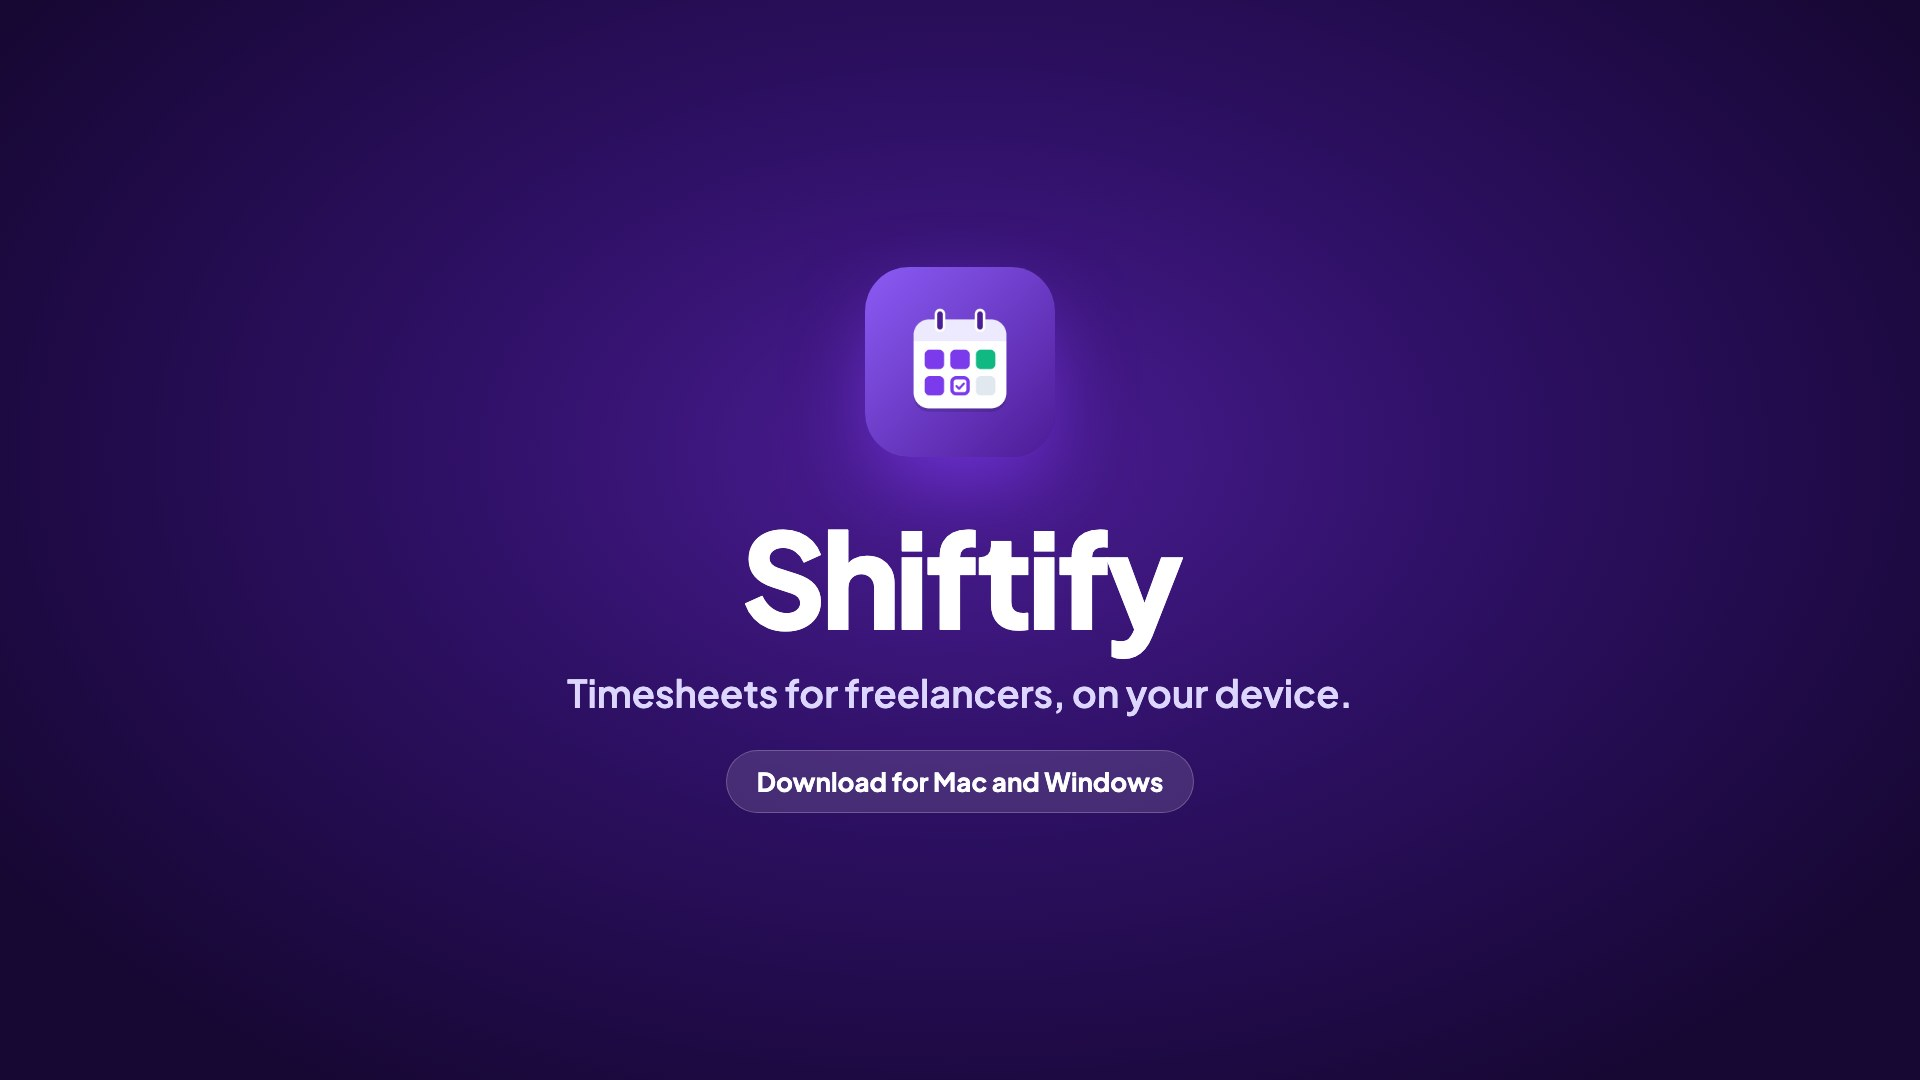
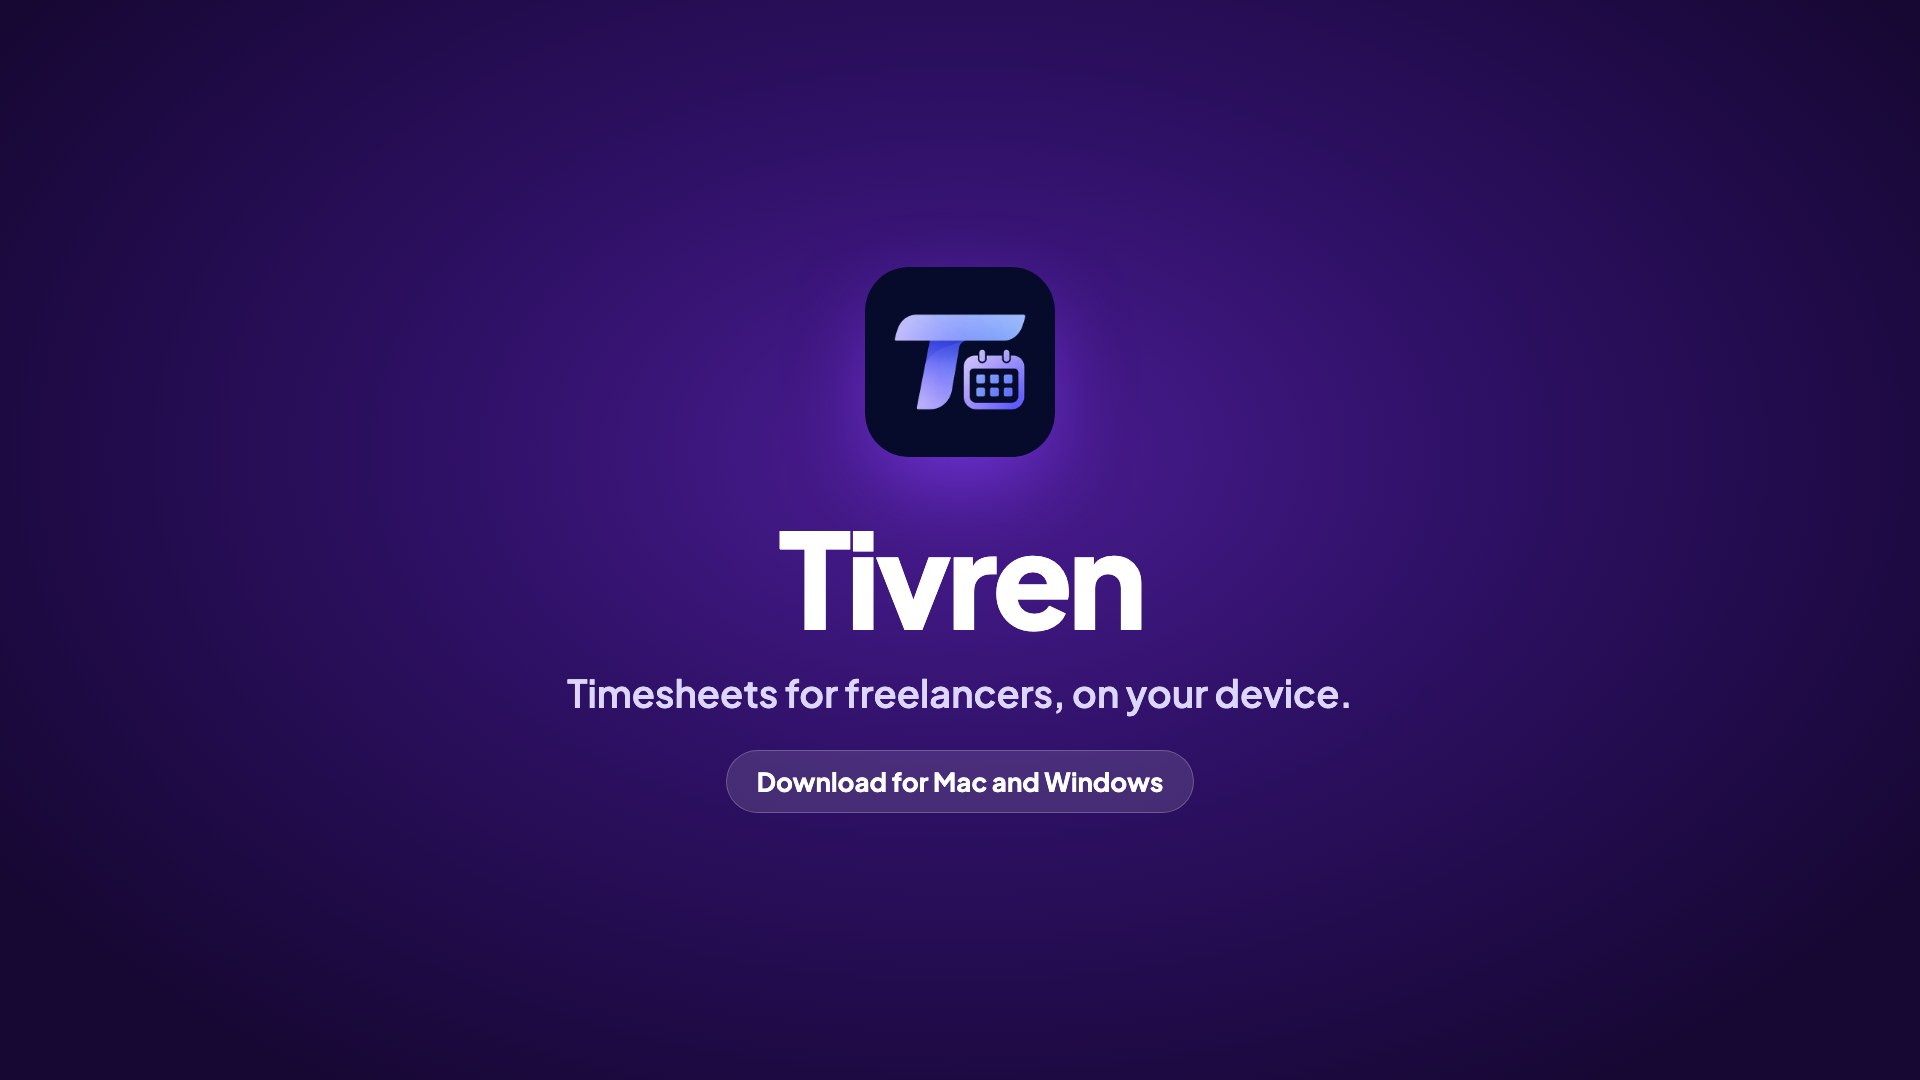
feat: rebrand shiftify

Changed region(s): [[0.375, 0.4889, 0.625, 0.6111], [0.4375, 0.2444, 0.5625, 0.4278]]

diff --git a/src/i18n/locales/ro/content.ts b/src/i18n/locales/ro/content.ts
@@ -1,111 +1,114 @@
 import type { CvContent } from "../../../types/content.ts";
 
+// Written to read naturally in Romanian, not translated word for word. Common IT
+// terms (code review, feature flags, stakeholderi…) stay in English, as Romanian
+// developers use them.
 export const content: CvContent = {
   profile: {
     role: "Senior Frontend Developer",
     location: "Târgu Mureș, România",
     summary:
-      "Inginer frontend cu peste 7 ani de experiență în platforme web reglementate, cu trafic ridicat, pentru clienți din Marea Britanie și SUA, acum colaborator independent. Scriu React și TypeScript, modelez arhitectura prin ADR-uri și am condus și dezvoltat echipe frontend ca People Lead.",
-    languages: ["Română (nativ)", "Engleză"],
+      "Dezvoltator frontend cu peste 7 ani de experiență în construirea de platforme web reglementate, cu trafic ridicat, pentru clienți din Marea Britanie și SUA. În prezent lucrez ca colaborator independent. Folosesc zilnic React și TypeScript, documentez deciziile de arhitectură prin ADR-uri, iar ca People Lead am îndrumat și sprijinit creșterea echipelor de frontend.",
+    languages: ["Română (limbă maternă)", "Engleză"],
     hiring: {
-      employee: { label: "Angajat", detail: "CIM (Contract Individual de Muncă)" },
-      contractor: { label: "Colaborator", detail: "B2B / freelance" },
+      employee: { label: "Angajare", detail: "CIM (Contract Individual de Muncă)" },
+      contractor: { label: "Colaborare", detail: "B2B / freelance" },
     },
   },
   jobs: {
     "gaming-factory": {
       title: "Senior Frontend Developer",
-      headline: "Dezvoltare frontend pentru un produs online de pariuri sportive și cazino",
+      headline: "Dezvoltare frontend pentru o platformă online de pariuri sportive și cazinou",
       points: [
-        "Dezvolt funcționalități pentru jucători și integrez servicii terțe precum video live, statistici în timp real și conținut promoțional.",
-        "Lucrez la instrumentele operatorilor din spatele produsului: gestionarea evenimentelor, a jocurilor și a competițiilor personalizate, plus plăți și pariuri.",
-        "Creez instrumente interne care oferă dezvoltatorilor și stakeholderilor vizibilitate asupra lansării funcționalităților și a testelor automate.",
-        "Livrez pagini de prezentare dedicate campaniilor de marketing.",
-        "Mențin codul sănătos prin code review, teste unitare și end-to-end și optimizări de performanță, și stabilesc prioritățile direct cu stakeholderii.",
+        "Dezvolt funcționalități destinate jucătorilor și integrez servicii externe, precum transmisiuni video live, statistici în timp real din timpul meciurilor și conținut promoțional.",
+        "Lucrez la instrumentele folosite de operatori pentru gestionarea evenimentelor sportive, a jocurilor și a competițiilor personalizate, precum și a plăților și pariurilor.",
+        "Construiesc unelte interne care le oferă dezvoltatorilor și echipelor de business o imagine clară asupra lansării funcționalităților și a rezultatelor testelor automate.",
+        "Realizez landing page-uri dedicate campaniilor de marketing.",
+        "Mențin calitatea codului prin code review, teste unitare și end-to-end și optimizări de performanță, iar prioritățile le stabilesc direct cu stakeholderii.",
       ],
     },
     healthcare: {
       title: "Senior Web Developer",
-      headline: "Portal pentru membri, conform HIPAA, pentru un client important din sistemul de sănătate american",
+      headline: "Portal pentru asigurați, conform HIPAA, pentru un client important din sistemul de sănătate din SUA",
       points: [
-        "Am coordonat sub-echipa noastră sub îndrumarea tech lead-ului, am construit funcționalități de bază și le-am conectat la endpoint-urile din backend.",
-        "Am redactat ADR-uri cheie: o arhitectură bazată pe portaluri, cu Jotai families și randare pe bază de chei, care păstrează starea iframe-urilor, și o strategie de layout pentru mai multe headere sticky.",
-        "Am impus un sistem de module feature-sliced cu eslint-plugin-boundaries și am contribuit la un toolkit comun care aliniază aplicațiile web și native.",
-        "M-am familiarizat rapid cu WCAG pentru a asigura accesibilitatea completă a unui portal public.",
-        "Am construit o componentă reutilizabilă de feature flags pe Sentry; autentificare cu Okta; teste cu Vitest și React Testing Library.",
+        "Am îndrumat subechipa din care făceam parte, sub coordonarea tech lead-ului, am implementat funcționalitățile de bază și le-am conectat la endpoint-urile din backend.",
+        "Am scris ADR-uri esențiale: unul pentru o arhitectură bazată pe portaluri, cu Jotai families și randare pe bază de key, care păstrează starea iframe-urilor, și altul pentru un layout cu mai multe headere sticky.",
+        "Am impus o arhitectură modulară de tip feature-sliced, verificată cu eslint-plugin-boundaries, și am contribuit la un toolkit comun, cu helperi și tipuri de date folosite atât în aplicația web, cât și în cea nativă.",
+        "M-am familiarizat rapid cu WCAG, ca portalul, fiind unul public, să respecte pe deplin standardele de accesibilitate.",
+        "Am construit o componentă reutilizabilă de feature flags, integrată cu Sentry, am lucrat cu autentificarea prin Okta și am scris teste cu Vitest și React Testing Library.",
       ],
     },
     "people-lead": {
       title: "People Lead",
-      headline: "Dezvoltarea și starea de bine a dezvoltatorilor frontend",
+      headline: "Creșterea profesională și starea de bine a echipei de frontend",
       points: [
-        "Am sprijinit dezvoltarea profesională a dezvoltatorilor frontend și alinierea lor cu obiectivele companiei.",
-        "Am condus evaluări de performanță, am gestionat nemulțumiri și am comunicat transparent deciziile companiei pentru a construi încredere.",
+        "Am sprijinit creșterea profesională a colegilor din frontend și i-am ajutat să își alinieze obiectivele cu cele ale companiei.",
+        "Am susținut evaluări de performanță, am rezolvat problemele semnalate de colegi și am comunicat transparent deciziile companiei, ca să construim o relație de încredere.",
       ],
     },
     "consumer-platform": {
       title: "Web Developer",
-      headline: "Platformă web de consum cu trafic ridicat, pe o piață reglementată din Marea Britanie",
+      headline: "Platformă web B2C cu trafic ridicat, pe o piață reglementată din Marea Britanie",
       points: [
-        "Am întreținut și extins aplicația principală pentru clienți: am migrat componentele de tip clasă la hooks și am integrat streaming live, widgeturi cu date în timp real, bannere dinamice și reCAPTCHA.",
-        "Am construit un instrument intern pentru urmărirea stadiului funcționalităților și a deeplink-urilor, rularea testelor E2E Cypress și activarea funcționalităților prin Jenkins.",
-        "Am contribuit la back office: gestionarea conținutului, competiții personalizate pentru anumiți clienți, plăți și tranzacții.",
-        "Am construit o aplicație single-page pentru campanii de marketing.",
-        "Am îndrumat și sprijinit dezvoltatori prin code ownership, am stabilit prioritățile împreună cu stakeholderii și am susținut interviuri tehnice pentru roluri React.",
+        "Am întreținut și extins aplicația principală pentru clienți: am rescris componentele de tip clasă ca componente funcționale cu hooks și am integrat streaming live, widgeturi cu date în timp real, bannere dinamice și reCAPTCHA.",
+        "Am construit un instrument intern în care dezvoltatorii urmăreau stadiul funcționalităților și deeplink-urile lor, porneau teste E2E cu Cypress și activau sau dezactivau funcționalități prin Jenkins.",
+        "Am contribuit la aplicația de back office, folosită pentru gestionarea conținutului, crearea de competiții personalizate pentru anumiți clienți și administrarea plăților și tranzacțiilor.",
+        "Am dezvoltat o aplicație single-page pentru campaniile de marketing.",
+        "Am îndrumat și sprijinit alți dezvoltatori prin code ownership, am stabilit prioritățile împreună cu stakeholderii și am susținut interviuri tehnice pentru poziții de React developer.",
       ],
     },
     qa: {
-      title: "QA manual și automat · part-time",
+      title: "QA manual și automatizat · part-time",
       headline: "Aplicații mobile și servicii backend",
       points: [
-        "Testare manuală a aplicațiilor Android și iOS pentru utilizabilitate și stabilitate.",
-        "Testare automată a serviciilor backend și a API-urilor în Java.",
+        "Am testat manual aplicațiile Android și iOS, urmărind ușurința în utilizare, funcționalitatea și stabilitatea.",
+        "Am scris teste automatizate în Java pentru serviciile backend și API-uri.",
       ],
     },
     "android-intern": {
       title: "Android Developer · stagiar",
-      headline: "Bazele dezvoltării Android",
-      points: ["Stagiu care a pus bazele aplicației din lucrarea mea de licență."],
+      headline: "Primii pași în dezvoltarea Android",
+      points: ["Stagiul mi-a oferit bazele de care am avut nevoie pentru aplicația din lucrarea de licență."],
     },
     "qa-intern": {
       title: "QA manual · stagiar",
-      headline: "Procese de testare și raportarea defectelor",
-      points: ["Prima experiență practică cu procese de QA pe proiecte software reale."],
+      headline: "Procese de testare și raportare a defectelor",
+      points: ["Primul contact practic cu procesele de QA, pe proiecte software reale."],
     },
   },
   projects: {
-    shiftify: {
-      name: "Shiftify",
-      tagline: "Pontaje pentru freelanceri, fără foi de calcul.",
+    tivren: {
+      name: "Tivren",
+      tagline: "Pontaje pentru freelanceri, fără bătăi de cap.",
       description:
-        "O aplicație offline de pontaj pentru freelanceri: înregistrezi zilele lucrate pentru fiecare client, îți iei zile libere și exporți pontajul lunar în Excel sau PDF. Sărbătorile legale se aplică automat, iar totul rămâne pe dispozitiv: fără cont, fără backend. Construită cu Expo / React Native pentru mobil și Electron pentru Mac și Windows, cu un site de prezentare în React + Vite care distribuie versiuni semnate, cu actualizare automată.",
+        "O aplicație offline de pontaj pentru freelanceri: înregistrezi zilele lucrate la fiecare client, îți notezi zilele libere și exporți pontajul lunar în Excel sau PDF. Sărbătorile legale sunt luate în calcul automat, iar datele rămân pe dispozitiv: fără cont, fără server. Am construit-o cu Expo / React Native pentru mobil și cu Electron pentru Mac și Windows, iar site-ul de prezentare, făcut în React + Vite, distribuie versiuni semnate, care se actualizează automat.",
       links: {
         website: "Vezi site-ul",
         source: "Codul site-ului",
       },
-      images: ["Pontajul zilnic în Shiftify", "Luna dintr-o privire", "Export în Excel sau PDF", "Mod întunecat"],
+      images: ["Pontajul zilnic din Tivren", "Luna dintr-o privire", "Export în Excel sau PDF", "Modul întunecat"],
     },
     "healthcare-portal": {
-      name: "Portal pentru membri – sănătate SUA",
-      tagline: "Portal pentru membri, conform HIPAA și WCAG.",
+      name: "Portal pentru asigurați (SUA)",
+      tagline: "Conform HIPAA și cu accesibilitate WCAG.",
       description:
-        "Arhitectură bazată pe portaluri care păstrează starea iframe-urilor, layouturi cu mai multe headere sticky, un toolkit comun web/nativ și feature flags pe Sentry.",
+        "Arhitectură bazată pe portaluri care păstrează starea iframe-urilor, layouturi cu mai multe headere sticky, un toolkit comun pentru web și mobil și feature flags integrate cu Sentry.",
       links: {},
       images: [],
     },
     "dev-tool": {
-      name: "Dashboard de lansări și funcționalități",
+      name: "Dashboard pentru lansări și funcționalități",
       tagline: "Instrument intern pentru dezvoltatori.",
       description:
-        "Un singur loc în care dezvoltatorii și stakeholderii urmăresc progresul fiecărei funcționalități, accesează deeplink-urile și task-urile asociate, pornesc teste end-to-end și activează sau dezactivează funcționalități prin joburi Jenkins.",
+        "Un singur loc din care dezvoltatorii și stakeholderii urmăresc progresul fiecărei funcționalități, ajung la deeplink-urile și task-urile asociate, pornesc teste end-to-end și activează sau dezactivează funcționalități prin joburi Jenkins.",
       links: {},
       images: [],
     },
     backoffice: {
       name: "Back office operațional",
-      tagline: "Platformă de administrare pentru un produs de consum cu trafic ridicat.",
+      tagline: "Platformă de administrare pentru un produs B2C cu trafic ridicat.",
       description:
-        "Folosit zilnic de operatori pentru a configura și edita conținut, a crea competiții personalizate pentru anumiți clienți și a supraveghea plăți și tranzacții.",
+        "Folosit zilnic de operatori pentru a configura și edita conținutul, a crea competiții personalizate pentru anumiți clienți și a urmări plățile și tranzacțiile.",
       links: {},
       images: [],
     },
@@ -113,7 +116,7 @@ export const content: CvContent = {
       name: "ACCU: Accountability of Utilities",
       tagline: "Lucrare de licență, aplicație Android.",
       description:
-        "Urmărește și gestionează consumul lunar de utilități. Construită pentru lucrarea mea de licență la Universitatea Babeș-Bolyai.",
+        "Aplicație pentru urmărirea și gestionarea consumului lunar de utilități, realizată pentru lucrarea mea de licență la Universitatea Babeș-Bolyai.",
       links: {
         source: "Codul pe GitHub",
       },
@@ -129,10 +132,11 @@ export const content: CvContent = {
     leadership: "Leadership",
   },
   education: {
-    degree: "Diplomă de licență în programare",
+    degree: "Licență în Informatică",
     school: "Facultatea de Matematică și Informatică, Universitatea Babeș-Bolyai",
     note: "Java, Android, Python, Angular, C/C++ și Assembly. Lucrare de licență: ACCU, o aplicație Android pentru urmărirea consumului de utilități.",
   },
+  // Course titles are the official (English) names in every language.
   certifications: {
     "react-native": "React Native – The Practical Guide",
     vue: "Vue – The Complete Guide (incl. Router & Composition API)",

diff --git a/src/i18n/locales/ro/ui.ts b/src/i18n/locales/ro/ui.ts
@@ -6,16 +6,16 @@ export const ui = {
   meta: {
     title: "Alexandru-Vasile Moldovan · Senior Frontend Developer",
     description:
-      "Senior Frontend Developer. React, TypeScript și peste 7 ani de experiență în platforme web reglementate.",
+      "Senior Frontend Developer. React, TypeScript și peste 7 ani de experiență în dezvoltarea de platforme web reglementate.",
   },
   nav: {
     skills: "Competențe",
     experience: "Experiență",
     projects: "Proiecte",
-    education: "Educație",
+    education: "Studii",
   },
   theme: {
-    switchTo: "Comută pe modul {{mode}}",
+    switchTo: "Treci la modul {{mode}}",
     light: "luminos",
     dark: "întunecat",
   },
@@ -23,41 +23,41 @@ export const ui = {
     label: "Limba",
   },
   hero: {
-    availableAs: "Disponibil ca",
+    availableAs: "Disponibil pentru",
     github: "GitHub",
     seeProjects: "Vezi proiectele ↓",
     stats: {
-      years: "ani în frontend",
+      years: "ani de experiență în frontend",
       roles: "roluri, de la stagiar la lead",
       projects: "proiecte prezentate",
     },
   },
   contact: {
     trigger: "Contactează-mă",
-    writeWith: "Scrie din {{app}}",
+    writeWith: "Scrie-mi din {{app}}",
     apps: {
       gmail: "Gmail",
       outlook: "Outlook",
       emailApp: "aplicația de email",
     },
     copy: "Copiază adresa",
-    copied: "Copiat ✓",
+    copied: "Copiată ✓",
   },
   skills: {
     title: "Competențe",
     idle: "Alege o competență ca să vezi unde am folosit-o.",
-    usage: "apare în {{roles}} și {{projects}}, evidențiate mai jos.",
+    usage: "folosit în {{roles}} și {{projects}}, evidențiate mai jos.",
     roles_one: "{{count}} rol",
     roles_few: "{{count}} roluri",
     roles_other: "{{count}} de roluri",
     projects_one: "{{count}} proiect",
     projects_few: "{{count}} proiecte",
     projects_other: "{{count}} de proiecte",
-    clear: "Resetează",
+    clear: "Șterge selecția",
   },
   experience: {
     title: "Experiență",
-    present: "Prezent",
+    present: "prezent",
   },
   projects: {
     title: "Proiecte",
@@ -77,16 +77,16 @@ export const ui = {
   gallery: {
     previous: "Captura anterioară",
     next: "Captura următoare",
-    show: "Arată: {{label}}",
+    show: "Afișează: {{label}}",
   },
   education: {
-    title: "Educație și certificări",
+    title: "Studii și certificări",
     onlineCourse: "curs online",
     hours_one: "{{count, number}} oră",
     hours_few: "{{count, number}} ore",
     hours_other: "{{count, number}} de ore",
     verify: "Verifică certificatul ↗",
     certificateAlt: "Certificat de absolvire: {{name}}",
-    languages: "Limbi",
+    languages: "Limbi vorbite",
   },
 } satisfies UiMessages;

diff --git a/src/i18n/locales/en/content.ts b/src/i18n/locales/en/content.ts
@@ -76,8 +76,8 @@ export const content: CvContent = {
     },
   },
   projects: {
-    shiftify: {
-      name: "Shiftify",
+    tivren: {
+      name: "Tivren",
       tagline: "Timesheets for freelancers, without the spreadsheet.",
       description:
         "An offline timesheet app for freelancers: log the days you work per client, take days off, and export a monthly timesheet to Excel or PDF. Bank holidays are applied automatically and everything stays on the device: no account, no backend. Built with Expo / React Native for mobile and Electron for Mac and Windows, with a React + Vite marketing site that serves signed auto-updating releases.",
@@ -85,7 +85,7 @@ export const content: CvContent = {
         website: "Visit the website",
         source: "Website source",
       },
-      images: ["Shiftify daily check-in", "Month at a glance", "Export to Excel or PDF", "Dark mode"],
+      images: ["Tivren daily check-in", "Month at a glance", "Export to Excel or PDF", "Dark mode"],
     },
     "healthcare-portal": {
       name: "US Healthcare Member Portal",

diff --git a/src/data/projects.ts b/src/data/projects.ts
@@ -2,14 +2,14 @@ import type { Project } from "../types/cv.ts";
 
 export const projects: Project[] = [
   {
-    id: "shiftify",
+    id: "tivren",
     kind: "personal",
     tags: ["React Native", "Expo", "Electron", "TypeScript", "React", "Vite", "SQLite", "Jotai", "i18next"],
     links: [
-      { id: "website", href: "https://moldovanalexandruvasile.github.io/shiftify-website/" },
-      { id: "source", href: "https://github.com/MoldovanAlexandruVasile/shiftify-website" },
+      { id: "website", href: "https://moldovanalexandruvasile.github.io/tivren-website/" },
+      { id: "source", href: "https://github.com/MoldovanAlexandruVasile/tivren-website" },
     ],
-    // Alt texts are in content.projects.shiftify.images, in the same order.
+    // Alt texts are in content.projects.tivren.images, in the same order.
     images: [
       "media/01-check-in.jpg",
       "media/02-month-at-a-glance.jpg",

diff --git a/README.md b/README.md
@@ -24,7 +24,7 @@ To add a role or project, add it to `src/data/` and add its text under the same
 id in both `content.ts` files. English is the reference: `tsc` fails if a `t()`
 key or a Romanian UI key is missing.
 
-The Shiftify screenshots in `public/media` come from the `shiftify-website` repo.
+The Tivren screenshots in `public/media` come from the `tivren-website` repo.
 
 ## Code layout
 
